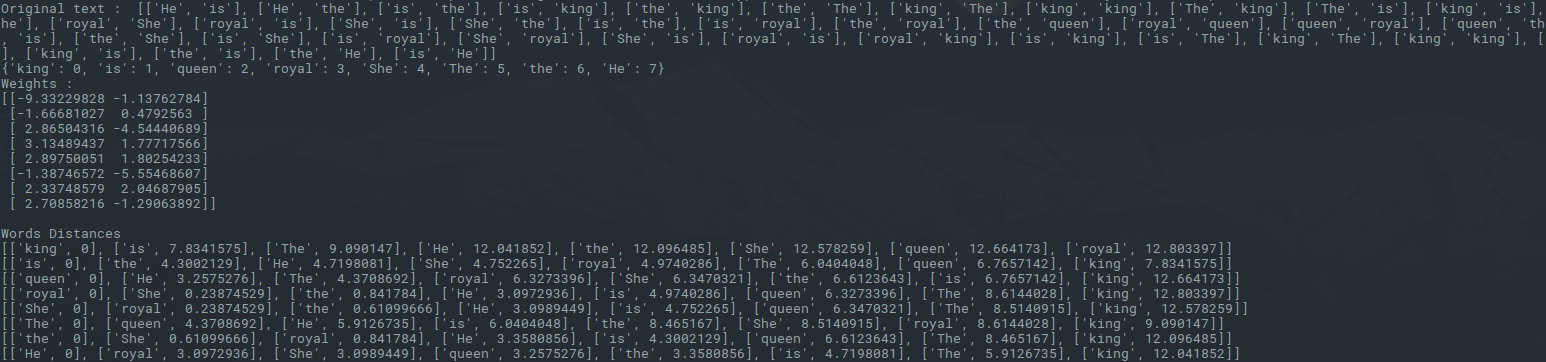
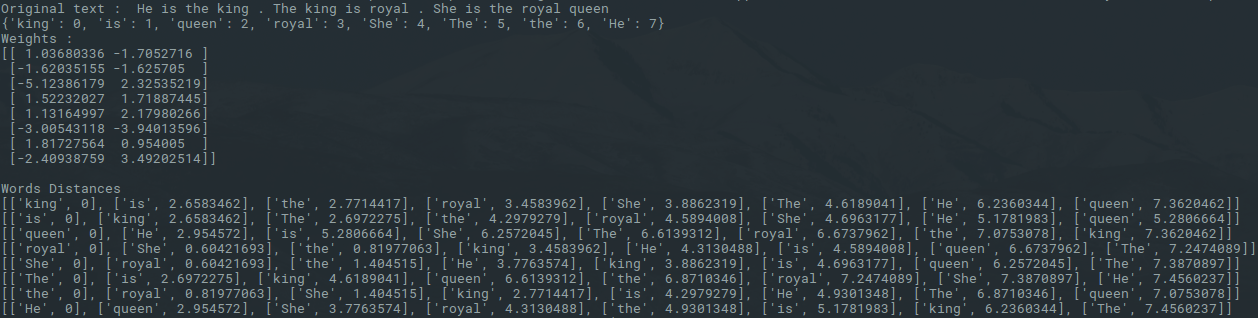
Update README

Changed region(s): [[0.0, 0.0, 1.0, 1.0]]

diff --git a/main.py b/main.py
@@ -5,6 +5,7 @@ import matplotlib.pyplot as plt
 WINDOWS_SIZE=2
 
 dataset="He is the king . The king is royal . She is the royal queen"
+ori_dataset=dataset
 for i in ['.',';',',','?','!',':','(',')']:
     dataset = dataset.replace(i, "")
 dataset_split=str.split(dataset)
@@ -109,7 +110,8 @@ for epoch in range(EPOCHS):
     for batch_i in range(0, x_train.shape[0], BATCH_SIZE):
         _,loss = sess.run([optimizer,cost], feed_dict={
             X: x_train[batch_i:batch_i + BATCH_SIZE], Y: y_train[batch_i:batch_i + BATCH_SIZE]})
-print 'Original text : ',dataset
+print 'Original text : ',ori_dataset
+
 print text_to_int
 
 print 'Weights :'
